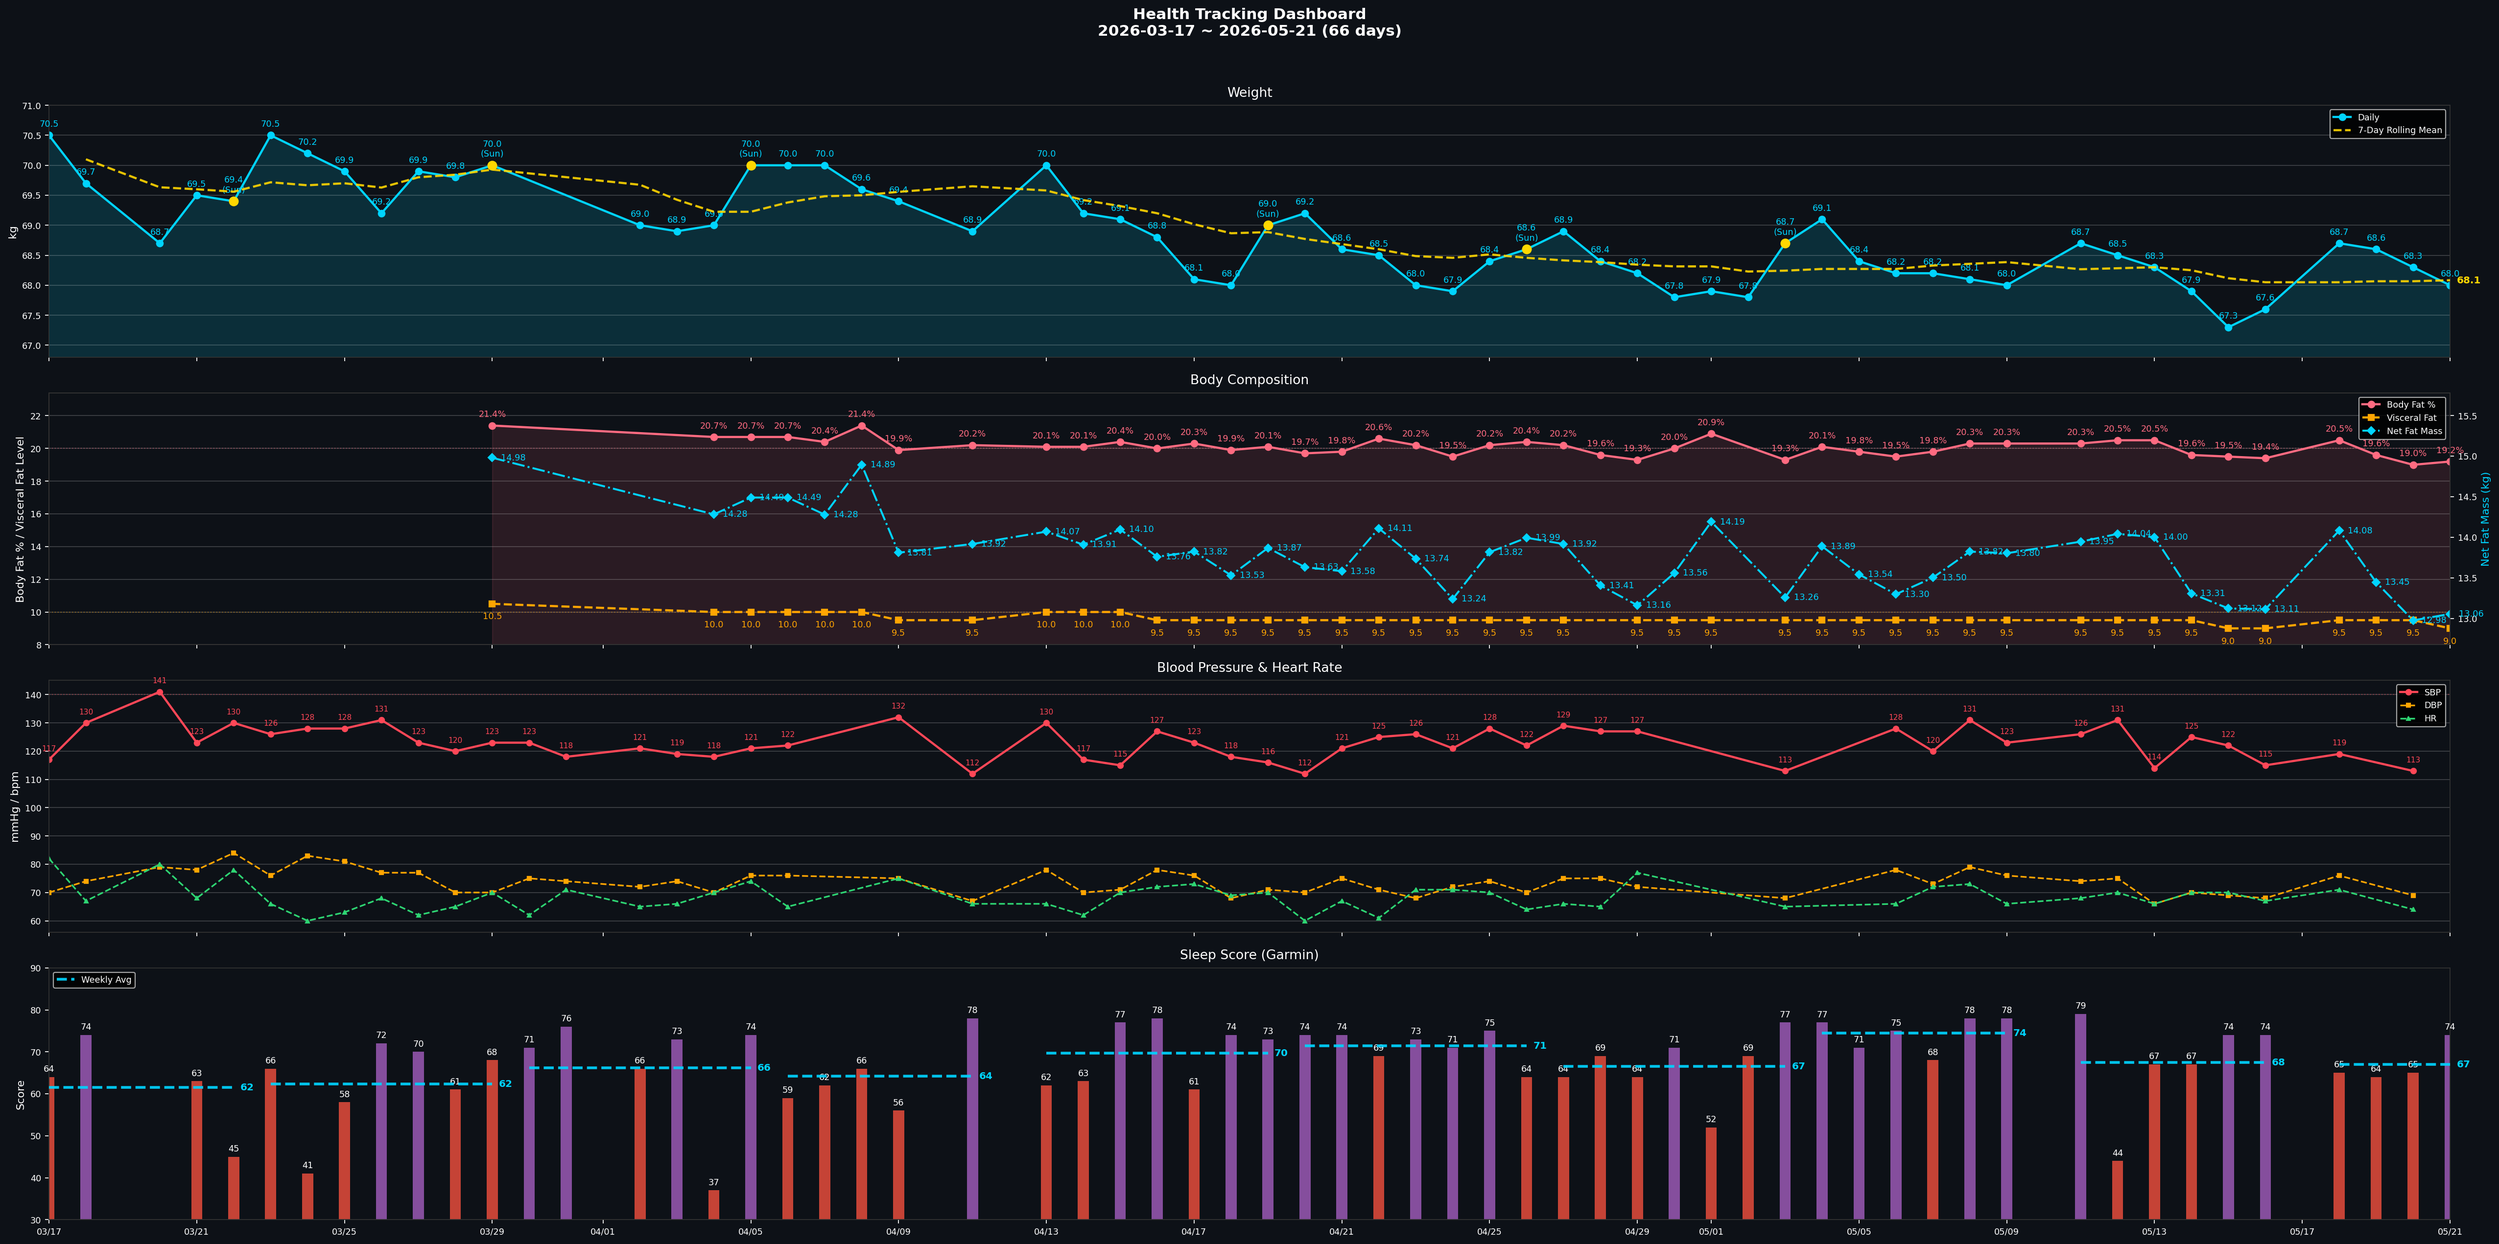
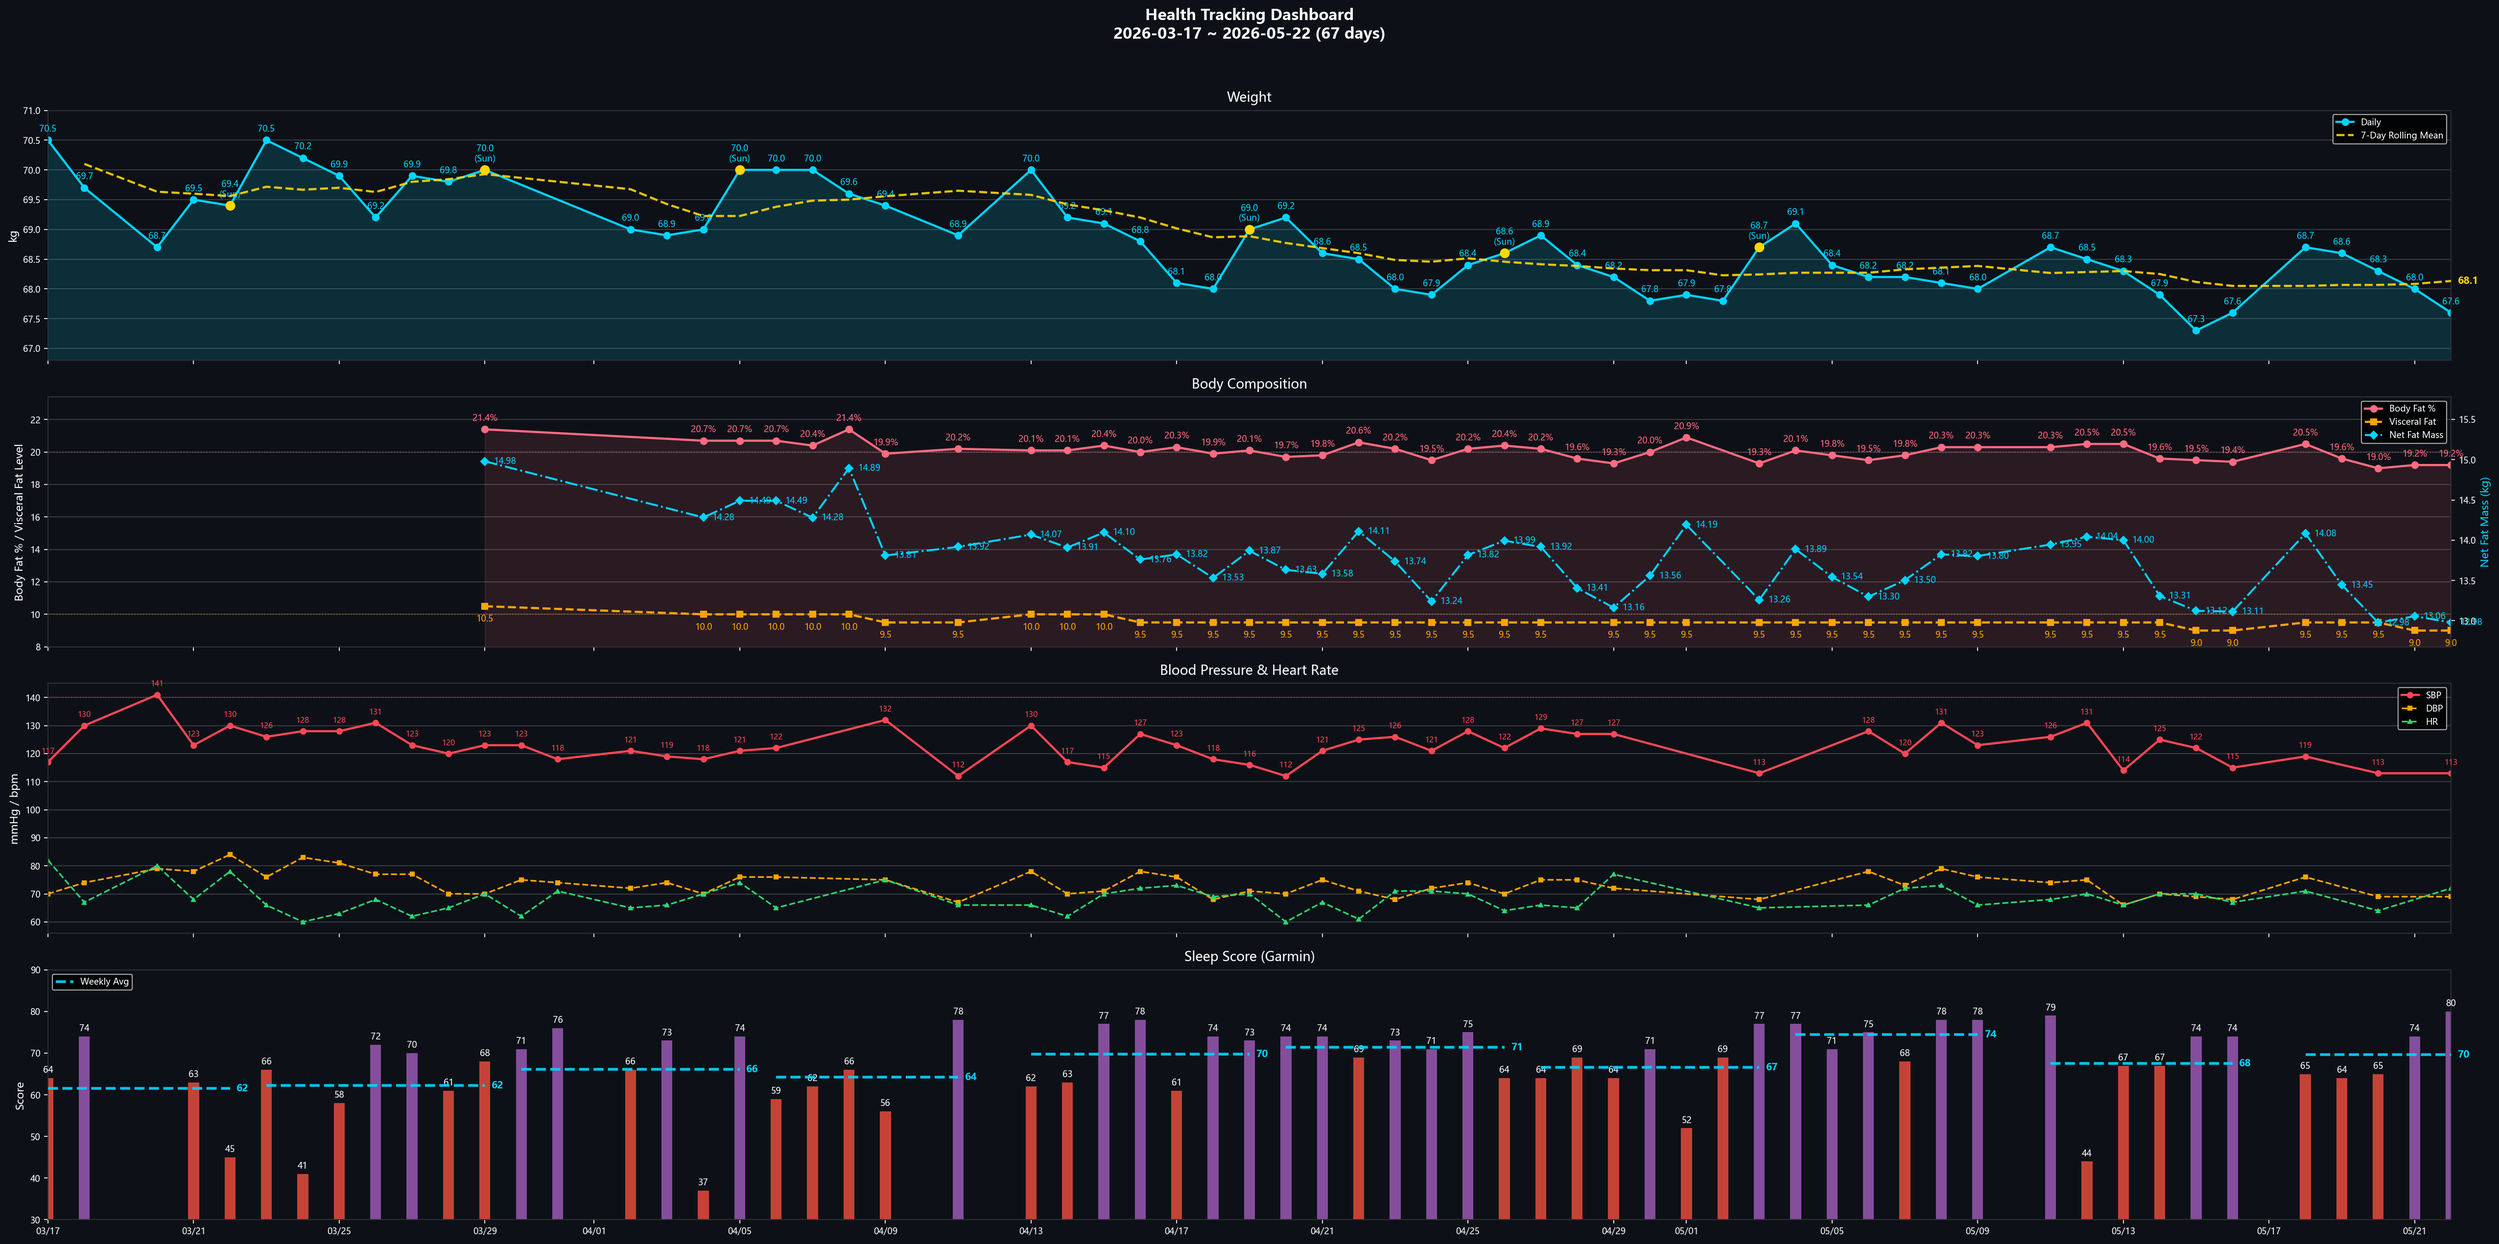
daily check-in 2026-05-22 (W21 D2 凍結期)
- BP 113/69/72 (1st N/A), 體重 67.6 kg / 體脂 19.2% / VFL 9.0
- Sleep Score 80 / BB 56 / TST 6h 58m / 中途醒 1 次 03:30
- SpO2 nadir 83% (連 7 晚 < 88%), T90 11.4% (首次破 10%, 5/21 7.4× 1.54)
- 03:28 desat 4 min at 83% → 03:30 user-reported awakening (desat-arousal 因果鏈再現)
- Phenotype 擺盪 Light↔REM, 今晚 REM-dominant (REM <90% 21%)
- 凍結期 D2 維持不加新介入, 5/25 結算

diff --git a/data.js b/data.js
@@ -14,8 +14,8 @@ window.HC_DATA = {
     lede:    { en: "Sleep, BP, lipids, uric acid — one shared metabolic root. Lifestyle stacks first; medication only after lifestyle plateaus.",
                zh: "睡眠、血壓、血脂、尿酸——共享同一個代謝根源。生活方式介入優先，等到效果平台期再考慮藥物。" },
     progressLbl: { en: "Weight progress · 70 → 65 kg", zh: "體重進度 · 70 → 65 公斤" },
-    progressMeta: { en: "Day 66 · 67.6 kg · Sat official (5/16)", zh: "第 66 天 · 67.6 公斤 · 週六正式（5/16）" },
-    startDate: { en: "Start date · Mar 17, 2026 · Last sync 5/21", zh: "起始日期 · 2026 年 3 月 17 日 · 最後同步 5/21" },
+    progressMeta: { en: "Day 67 · 67.6 kg · Sat official (5/16)", zh: "第 67 天 · 67.6 公斤 · 週六正式（5/16）" },
+    startDate: { en: "Start date · Mar 17, 2026 · Last sync 5/22", zh: "起始日期 · 2026 年 3 月 17 日 · 最後同步 5/22" },
     startWeight: 70,
     targetWeight: 65,
     currentWeight: 67.6,
@@ -44,13 +44,13 @@ window.HC_DATA = {
     {
       sys: "heart", name: { en: "Blood Pressure", zh: "血壓" },
       val: "122/70", unit: "mmHg",
-      delta: { en: "W20 weekly avg (6 days) · target met (<130) · last 113/69 (5/20)", zh: "W20 週均（6 天）· 已達標 (<130) · 最新 113/69 (5/20)" },
+      delta: { en: "W20 weekly avg (6 days) · target met (<130) · last 113/69 (5/22)", zh: "W20 週均（6 天）· 已達標 (<130) · 最新 113/69 (5/22)" },
       cadence: { en: "Daily · weekly avg", zh: "每日 · 週均" },
       status: "ok",
     },
     {
       sys: "sleep", name: { en: "Sleep Score", zh: "睡眠分數" },
-      val: "74", unit: "Garmin",
+      val: "80", unit: "Garmin",
       delta: { en: "5/4 · OSA flag: T90 18.4% (severe)", zh: "5/4 · OSA 紅旗：T90 18.4%（重度）" },
       cadence: { en: "Daily · Garmin", zh: "每日 · Garmin" },
       status: "warn",
@@ -909,14 +909,14 @@ window.HC_DATA = {
   tracker: {
     // [SBP, DBP] — gaps filled with prior reading
     bp: [
-      [128,78], [120,73], [131,79], [123,76], [126,74], [131,75], [114,66], [125,70], [122,69], [115,68], [119,76], [119,76], [113,69], [113,69],
+      [120,73], [131,79], [123,76], [126,74], [131,75], [114,66], [125,70], [122,69], [115,68], [119,76], [119,76], [113,69], [113,69], [113,69],
     ],
     // daily weight (kg)
-    weight: [68.2, 68.2, 68.1, 68, 68.7, 68.5, 68.3, 67.9, 67.3, 67.6, 68.7, 68.6, 68.3, 68],
+    weight: [68.2, 68.1, 68, 68.7, 68.5, 68.3, 67.9, 67.3, 67.6, 68.7, 68.6, 68.3, 68, 67.6],
     // Garmin Sleep Score
-    sleep:  [75, 68, 78, 78, 79, 44, 67, 67, 74, 74, 65, 64, 65, 74],
+    sleep:  [68, 78, 78, 79, 44, 67, 67, 74, 74, 65, 64, 65, 74, 80],
     // Body Battery waking
-    bb:     [56, 47, 37, 48, 55, 36, 42, 34, 51, 63, 48, 62, 54, 61],
+    bb:     [47, 37, 48, 55, 36, 42, 34, 51, 63, 48, 62, 54, 61, 56],
     // SpO2 nightly nadir % (last 14 days, parallel to bp/weight/sleep/bb).
     // Earlier nights null until sync_data_js.py backfills; banner only uses trailing values.
     spo2Nadir: [null, null, null, null, null, 84, 79, 87, 85, 84, 84, 86, 82, 84],

diff --git a/reviews/daily/2026-05-22.md b/reviews/daily/2026-05-22.md
@@ -1,0 +1,141 @@
+# 晨間健康紀錄 — 2026-05-22
+
+*3 分鐘。起床後立即完成。記錄，不分析。*
+
+---
+
+## 體重
+
+**今日：67.6 kg**
+**體脂率：19.2 %**
+**內臟脂肪等級：9.0**
+
+*每週六早晨為正式紀錄（排尿後、進食前；連 5 個工作日後、週末大餐前的真實低點）。其他日可選填。*
+
+---
+
+## 血壓（晨間）
+
+*起床後 1 小時內，上完廁所、進食前。坐下安靜 5 分鐘，連量兩次取第二次。*
+
+| 次數 | 收縮壓 | 舒張壓 | 心率 |
+|------|--------|--------|------|
+| 第一次 | NA | NA | NA |
+| 第二次 | 113 | 69 | 72 |
+
+---
+
+## 睡眠狀態
+
+**Garmin 偵測入睡：** 21:41
+**實際上床：**
+**實際起床：** 05:08
+**TST：** 6h 58m（深眠 66 分 / REM 100 分）
+**中途醒來：** 1 次（約 03:30，原因不明）— *對應 03:28–03:31 desat 至 83% 4 分，疑為 desat-triggered autonomic arousal*
+**Garmin Sleep Score：** 80 / 100 ✅
+**Garmin Body Battery 起床值：** 56
+**主觀恢復感：** 3 / 5（1=極度疲憊, 5=精力充沛）— *vs 5/21 = 2，邊際改善但 T90 反惡化*
+**RHR：** 58 bpm｜**日均壓力：** 28
+
+### SpO2 夜間最低（7 晚趨勢）
+
+| 日期 | -6 | -5 | -4 | -3 | -2 | -1 | 今晨 |
+|------|----|----|----|----|----|----|------|
+| 日期 | 5/16 | 5/17 | 5/18 | 5/19 | 5/20 | 5/21 | 5/22 |
+| 最低 % | 84 | 86 | 87 | 83 | 84 | 83 | **83** |
+
+**今晨日均 SpO2：** 95.0%
+**< 88% 連續晚數：** 7+（連 7 晚均 < 88%；OSA 紅旗門檻：連 3 晚 < 88% → 強烈建議 PSG）
+
+**今晨 T90：** **11.4%**（紅旗門檻 > 10%；昨日 7.4% → 今日 **再惡化 1.54×**，**首次破 10%**）｜**最長 desat：** **15 分**（紅旗 > 15 分；昨日 30 分→15 分，event 變短但碎裂為 12 段）｜**最低點：** 83%（紅旗 < 80%）
+**Desat events：** ≥5 min × 3 段（15 / 11 / 5+ min），≥1 min × 12 段（vs 5/21 = 1 段 30 min；今晚是 fragmented pattern）
+
+**階段分層 nadir / <90% 比例（今晨）：**
+- Deep：90% / 0%
+- Light：85% / 11%
+- **REM：83% / 21%** ← 主導塌陷階段
+
+**Phenotype 更新（5/22）：** 由 5/21 的 **Light-dominant** → 今晨 **REM-dominant**（REM 期 21% 時間 <90% vs Light 11%）。Phenotype 在 5/19→5/20→5/21→5/22 之間擺盪：REM → REM → Light → REM。這種**不穩定 phenotype** 本身就是 mixed-mechanism OSA 證據 — supine + REM-atonia + retroglossal 多因素同時參與。**對 HSAT/PSG 的意涵**：必須完整跨多 cycle 觀察才能確定主導機制，單夜判讀不足。
+
+**🎯 POSA 持續驗證（5/22 D2）：**
+- 03:28 desat 4-min 至 83% → 03:30 中途醒來（user-reported）：**desat → arousal 因果鏈再次成立**
+- T90 從 7.4% → 11.4% 而 nadir 持平 83%：**event 數倍增**（1 → 12 段）顯示介入未阻止 desat，僅縮短單一 event 長度
+- 凍結期 D2 結論：保持紀律不加新介入，5/25 結算判讀
+
+**SpO2 全夜圖（含 hypnogram 條帶）：** reviews/daily/spo2/spo2_desat_2026-05-22.png
+**SpO2 趨勢圖：** reviews/daily/spo2/spo2_desat_trend.png
+**SpO2 全夜 Heatmap（29 晚 Venu 4 cohort）：** reviews/daily/spo2/spo2_heatmap_all_nights.png
+**SpO2 × 睡眠分期 7 晚疊圖：** reviews/daily/spo2/spo2_hypnogram_7night_2026-05-22.png
+
+*Sleep Score < 65 或 Body Battery < 50 連續三天 → 重新檢視睡眠修復方案。*
+
+---
+
+## 昨日回顧
+
+**實際飲水量：** 3.05 L（目標 ≥ 2.5L；高尿酸最佳 2.8–3.0L；17:00 前完成 60-70%）— ✅ 超標
+**昨日步數：** 10,145
+**昨日活動消耗：** 102 kcal 含 BMR / 84 kcal 主動（騎車 5.7 分 + 走路 7.2 分）
+  - < 100 kcal → 今日加強運動（補一段 Zone 2 走路 30 分）
+**昨日 Na / K / Na-K ratio：** — / — / —（無 food log）
+
+---
+
+## 身體信號
+
+*任何張力、疼痛、疲勞、異常 — 或「清」。記位置、性質、強度。*
+
+| 部位 | 性質 | 強度 (0-10) |
+|------|------|-------------|
+| 清 | — | — |
+
+---
+
+## 今日計畫速記
+
+- [ ] 飲水目標：2.5 L（建議 2.5–3.0L；錨點 09:30 ≥1.0L / 13:30 ≥2.0L / 17:00 截止 2.5L）
+- [ ] 補充品（核心，2026-05-11 v2 + 凍結期不加新項）：
+  - 早餐（06:00）：D3 2000 IU + K2 MK-7 180 mcg + L-Citrulline 4 g + 益生菌
+  - 午餐前 30 min：Psyllium 5 g + 350 mL 水
+  - 晚餐前 30 min：Psyllium 5 g + 350 mL 水
+  - 晚餐後：魚油 ×4（拆 18:30 ×2 + 19:30 ×2）
+  - 睡前（21:00）：鎂甘胺酸 400 mg + 酸櫻桃 1000-2000 mg + Glycine 3 g
+  - 茶飲：洛神花 ×2 杯（早 + 14:00 前）
+  - 食物層：南瓜籽 30 g（15:30）+ 菇蕈 100-130 g/天
+  - ⏸ 待定：NAC 600 mg × 2（待 PSG 結果）
+- [ ] 運動：通勤騎車 + 步行（Zone 2）+ **補 30 分 Zone 2 走路**（昨日活動消耗 < 100 kcal）
+- [ ] 活動度/伸展（09:30 + 20:30 兩次錨點）
+- [ ] Wind-down（20:00 燈光降 + 螢幕濾鏡，液體截止）
+- [ ] 睡前 12 分鐘床上 routine（Child's Pose → 抱胸扭轉 → 膕繩肌 → PMR → 4-7-8）
+- [ ] 上床 21:30 / 熄燈 22:00（TST 目標 7h+）
+- [ ] **網球 T-shirt 第 3 晚（POSA Level 2）** — 確認反穿背口袋 2 顆網球緊貼脊柱
+- [ ] **PSG 預約硬性目標**：本週敲定，不再以居家介入延後
+
+---
+
+### 5 天凍結期觀察日誌（5/21-5/25）
+
+| 日期 | nadir | T90 | 最長 event | 網球 | Light/REM nadir | 主觀恢復感 |
+|------|-------|-----|-----------|------|-----------------|-----------|
+| 5/21（D1） | 83% | 7.4% | 30 min | ? | 83 / 94 | 2 ⚠ |
+| 5/22（D2） | 83% | **11.4%** ⚠ | 15 min | 待補 | 85 / **83** | 3 |
+
+**5/22 補加欄位（POSA 驗證後）：每晨補答醒來體位**
+
+| 日期 | 醒來體位 | 中途翻仰自覺 |
+|------|---------|-------------|
+| 5/21 | **仰**（user-confirmed 3am 醒來時仰臥） | ✅ 翻過來 |
+| 5/22 | 待補 | 03:30 醒來 1 次（原因 N/A） |
+| 5/23 | | |
+| 5/24 | | |
+| 5/25 結算 | | |
+
+**5/25 判讀規則**：T90 < 5% + nadir ≥ 88% → POSA 主導；nadir 仍 83-85% → REM-related / structural，PSG 必做（已預約則直接執行）。
+
+---
+
+💡 PT 建議：🚨 **T90 首次破 10% 警報** — 5/21 T90 7.4% → 5/22 **11.4%（×1.54）**，**首次跨越 10% 重度門檻**。Event 從 5/21 「1 段 30 min」變為「12 段 fragmented」— 雖最長 event 縮短，但累積缺氧時間反增。Phenotype 在 Light↔REM 間擺盪（5/19 REM / 5/20 REM / 5/21 Light / 5/22 REM），顯示 mixed-mechanism OSA，**單夜判讀不可靠**。03:28 desat 4-min at 83% → 03:30 awakening user-confirmed → desat-arousal 因果鏈再次驗證（與 5/21 一致）。Sleep Score 80 + 主觀恢復感 3 看似改善，但**這是 silent hypoxia 的典型表現**：12 段 sub-arousal desat 不被主觀感知。**今日三件事**：(1) **PSG/HSAT 今日打電話預約敲定**，凍結期紀律 ≠ 拖延診斷；T90 已破 10% + nadir 連 7 晚 < 88% 已超過任何居家介入合理上限；(2) 今晚補答「醒來體位」（仰/側）並紀錄翻身次數；(3) 今日 Zone 2 走路 30 分補活動量（昨日 84 kcal 主動偏低）。血壓 113/69/72 ✅ 正常範圍（連 2 日有 BP 數據，連續性恢復）。體重 67.6 ↓ 0.4kg / 體脂 19.2 持平（單日波動，週六正式記錄為準）。
+
+---
+
+*Filed: reviews/daily/2026-05-22.md*

diff --git a/reviews/weekly/2026-W21.md b/reviews/weekly/2026-W21.md
@@ -31,9 +31,9 @@
 
 |  | 一 | 二 | 三 | 四 | 五 | 六 | 日 |
 |--|----|----|----|----|----|----|-----|
-| 體重 (kg) | 68.7 | 68.6 | 68.3 | 68.0 | | | |
-| 體脂率 (%) | 20.5 | 19.6 | 19.0 | 19.2 | | | |
-| 內臟脂肪 | 9.5 | 9.5 | 9.5 | 9.0 | | | |
+| 體重 (kg) | 68.7 | 68.6 | 68.3 | 68.0 | 67.6 | | |
+| 體脂率 (%) | 20.5 | 19.6 | 19.0 | 19.2 | 19.2 | | |
+| 內臟脂肪 | 9.5 | 9.5 | 9.5 | 9.0 | 9.0 | | |
 
 **本週正式讀數（週六早晨）：** _____ kg｜體脂率：_____%｜內臟脂肪：_____
 **上週正式讀數（週六早晨）：** _____ kg｜體脂率：_____%｜內臟脂肪：_____
@@ -49,7 +49,7 @@
 | 5/19 (二) | — | — | — |
 | 5/20 (三) | 113 | 69 | 64 |
 | 5/21 (四) | NA | NA | NA |
-| 5/22 (五) | | | |
+| 5/22 (五) | 113 | 69 | 72 |
 | 5/23 (六) | | | |
 | 5/24 (日) | | | |
 
@@ -67,7 +67,7 @@
 | 5/19 (二) | 22:41 | 03:42 | 0 | 64 | 62 | 3 |
 | 5/20 (三) | 21:28 | 03:49 | 無 | 65 | 54 | 3 |
 | 5/21 (四) | 21:22 | 04:07 | 無 | 74 | 61 | 2 |
-| 5/22 (五) | | | | | | |
+| 5/22 (五) | 21:41 | 05:08 | 1 (03:30) | 80 | 56 | 3 |
 | 5/23 (六) | | | | | | |
 | 5/24 (日) | | | | | | |
 
@@ -99,7 +99,7 @@
 
 | 信號（部位+性質） | 出現天數 | 平均強度 | 趨勢（↑↓→） | 備註 |
 |-------------------|----------|----------|-------------|------|
-| 清 | 4 | — | — | 05-18 / 05-19 / 05-20 / 05-21 |
+| 清 | 5 | — | — | 05-18 / 05-19 / 05-20 / 05-21 / 05-22 |
 
 **反覆出現（≥ 3 天）：** 無
 
@@ -125,6 +125,7 @@
 | 05-19 (二) | walking 16.1 min + cycling 4.9 min（主動 157 kcal） |
 | 05-20 (三) | cycling 11.9 min + walking 7.4 min（主動 145 kcal） |
 | 05-21 (四) | cycling 5.7 min（主動 42 kcal） |
+| 05-22 (五) | walking 14.1 min + indoor_cardio 17.3 min + cycling 5.3 min（主動 270 kcal） |
 
 ---
 

diff --git a/reports/daily-garmin/2026-05-22.md b/reports/daily-garmin/2026-05-22.md
@@ -1,0 +1,36 @@
+# Garmin 每日摘要 — 2026-05-22
+
+## 睡眠
+- 就寢：21:41｜起床：05:08
+- 總時長：6h 58m
+- 深眠：66 分｜REM：100 分
+- Sleep Score：80
+- Body Battery 起床值：56
+
+## 靜息心率
+- RHR：58.0 bpm
+
+## 壓力
+- 日均：28
+
+## 步數
+- 總計：8,532
+
+## SpO2
+- 日均：95.0%
+- 最低：83%
+
+## 活動
+| 時段 | 類型 | 距離 | 時長 | 平均 HR | 最大 HR | 主動 kcal | 含 BMR |
+|------|------|------|------|---------|---------|-----------|--------|
+| 07:38 | walking | 0.63 km | 14.1 min | 102 | 112 | 57 | 76 |
+| 08:15 | indoor_cardio | 0.00 km | 17.3 min | 145 | 153 | 163 | 186 |
+| 10:50 | cycling | 1.04 km | 5.3 min | 142 | 152 | 50 | 57 |
+| **小計** | 3 段 | **1.67 km** | **36.6 min** | — | — | **270** | **319** |
+
+## 飲水
+- 實際：0.06 L
+- 目標：2.00 L
+- 運動流汗耗水：0.52 L
+
+_Source: data/garmin/2026-05-22.json (gitignored)_

diff --git a/reports/daily-garmin/2026-05-21.md b/reports/daily-garmin/2026-05-21.md
@@ -6,28 +6,31 @@
 - 深眠：64 分｜REM：69 分
 - Sleep Score：74
 - Body Battery 起床值：61
+- 估算上床：21:18｜入睡 latency：5 分（範圍 5–23 分）
 
 ## 靜息心率
 - RHR：59.0 bpm
 
 ## 壓力
-- 日均：24
+- 日均：29
 
 ## 步數
-- 總計：1,944
+- 總計：10,145
 
 ## SpO2
-- 日均：96.0%
+- 日均：95.0%
 - 最低：83%
 
 ## 活動
 | 時段 | 類型 | 距離 | 時長 | 平均 HR | 最大 HR | 主動 kcal | 含 BMR |
 |------|------|------|------|---------|---------|-----------|--------|
 | 09:28 | cycling | 0.98 km | 5.7 min | 122 | 143 | 42 | 50 |
+| 12:52 | walking | 0.67 km | 7.2 min | 122 | 135 | 42 | 52 |
+| **小計** | 2 段 | **1.65 km** | **12.9 min** | — | — | **84** | **102** |
 
 ## 飲水
-- 實際：0.00 L
+- 實際：3.05 L
 - 目標：2.00 L
-- 運動流汗耗水：0.09 L
+- 運動流汗耗水：0.19 L
 
 _Source: data/garmin/2026-05-21.json (gitignored)_
